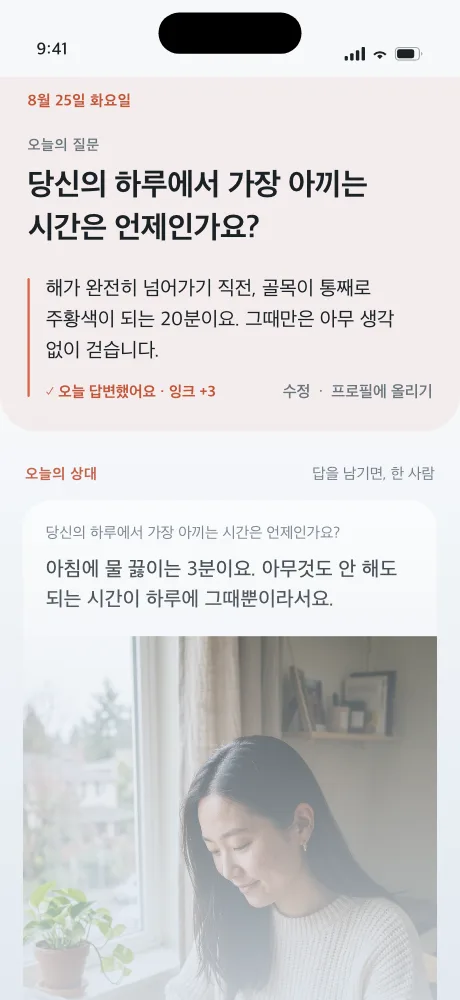
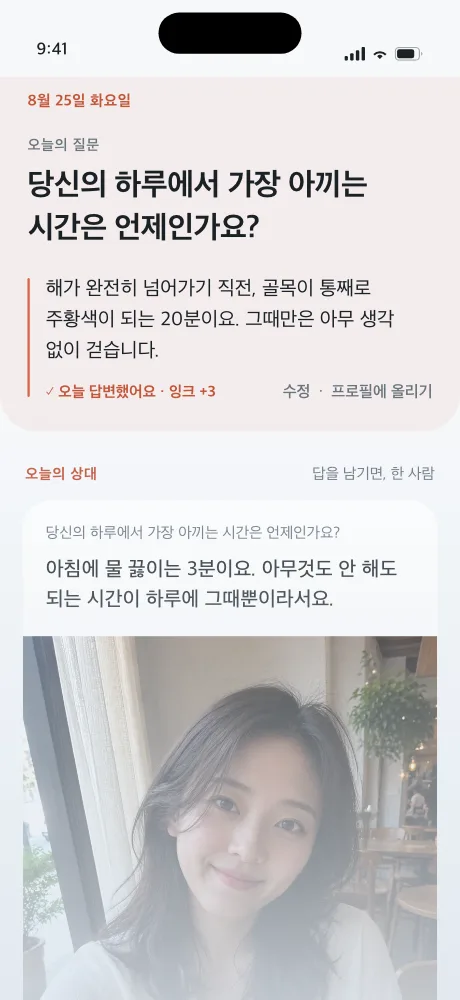
Refresh web and store profile photos with a casual selfie

Changed region(s): [[0.0304, 0.62, 0.9739, 1.0], [0.7609, 0.868, 0.9435, 0.961]]

diff --git a/design/photos/selfie-prompt-2026-09.md b/design/photos/selfie-prompt-2026-09.md
@@ -1,0 +1,10 @@
+# 일상 셀카 최종 편집
+
+내장 image_gen으로 기존 가상 인물 셀카를 편집했다. 최종 원본은 `cafe-selfie-2026-09.png`, 웹·스토어 공용 배포본은 `../../web/public/photos/cafe-selfie-2026-09.webp`다. 기존 회원 사진은 변경하지 않는다.
+
+```text
+Use case: identity-preserve
+Edit target: supplied AI-generated fictional Korean adult woman age 28 taking a café selfie.
+Request: Make a modest refinement toward an ordinary person's real quick smartphone selfie, less polished and posed. Preserve the same recognizable woman, adult age, shoulder-length dark hair, ivory casual blouse, café setting and portrait 4:5 framing.
+Replace the broad perfectly posed smile with a small relaxed slightly uneven closed-mouth smile. Slightly off-center spontaneous framing, camera held in one hand near eye level, tiny casual tilt; other shoulder relaxed, not both arms symmetrically reaching for camera. Natural stray hairs and slightly lived-in hair arrangement. Normal skin pores, faint under-eye texture, subtle natural redness, minimal everyday makeup, no smoothing. Ordinary mixed café and window light, slightly uneven exposure and mild phone-camera noise, natural neutral color, typical front camera detail rather than ultra-sharp editorial photography. Background reasonably in focus and mundane. Do not exaggerate flaws or deliberately make her unattractive, dirty, tired or blurry. Keep warmth and approachability. No beauty filter, cinematic grading, studio lighting, glamour polish, dramatic bokeh, face reshaping, artificial film grain, text or watermark. Anatomically plausible cropped arm, no extra limbs. Photo only.
+```

diff --git a/store/v3/README.md b/store/v3/README.md
@@ -5,9 +5,9 @@
 웹 판은 굽는 김에 webp로 줄여 `web/public/screens/`에 바로 꽂습니다 — 손으로 옮기면 언젠가 한쪽만 갱신되고, 실제로 그런 적이 있습니다(스토어는 v3인데 랜딩은 v1이었습니다).
 
 2026-09-07부터 웹의 첫 화면과 문답·오늘의 상대 미리보기는 `web/src/components/ProfilePreview.astro`에서 그립니다.
-사진은 `web/public/photos/cafe-portrait-2026-09.webp`를 공유하며, 원본과 생성 기록은 `design/photos/`에 있습니다.
+사진은 `web/public/photos/cafe-selfie-2026-09.webp`를 공유하며, 원본과 생성 기록은 `design/photos/`에 있습니다.
 이 두 미리보기는 `screens/1-discover.webp`와 `screens/4-answers.webp`를 더 이상 화면에 사용하지 않습니다.
-스토어 제출 이미지와 실제 계정의 사진은 별도로 유지합니다.
+스토어 제출 이미지도 같은 셀카 사진을 공유합니다. 실제 계정의 사진은 변경하지 않습니다.
 
 ## 왜 다시 만들었나
 
@@ -60,7 +60,7 @@
 
 ## 사진
 
-`store/personas/`의 페르소나 사진을 씁니다(앱 시드 계정과 같은 인물).
+주인공 조용한위로는 웹과 공유하는 `web/public/photos/cafe-selfie-2026-09.webp`를 씁니다. 나머지 예시 프로필은 `store/personas/`의 기존 이미지를 유지합니다.
 사람 사진이 들어가면 애플 심사에서 실제 인물로 오인될 소지가 없도록
 생성 이미지임을 유지하고, 실제 유저 사진은 절대 쓰지 않습니다.
 

diff --git a/design/photos/README.md b/design/photos/README.md
@@ -1,4 +1,4 @@
-# 웹 프로필 사진
+# 웹·스토어 프로필 사진
 
 - 요청: 더 자연스럽고 예쁜 20대 한국인 여성 사진으로 웹 이미지를 교체.
 - 제작일: 2026-09-07.
@@ -7,7 +7,11 @@
 - 웹 배포본: `../../web/public/photos/cafe-portrait-2026-09.webp` (폭 800px, WebP 품질 85).
 - 사용처: `ProfilePreview.astro`를 통한 웹 첫 화면, 문답 남기기, 오늘의 상대 안내.
 - 얼굴과 사진 내용은 생성 결과 그대로 유지하고, 웹 배포본은 크기와 파일 형식만 최적화했다.
-- 앱 계정 사진이나 스토어 제출 자료를 변경하지 않는다.
+- 앱 계정 사진은 변경하지 않는다.
+
+## 현재 사용 사진 — 일상 셀카
+
+2026-09-07 사용자 요청에 따라 `cafe-selfie-2026-09.png`로 교체했다. 웹과 각 스토어 스크린샷이 `../../web/public/photos/cafe-selfie-2026-09.webp`를 공유한다. 내장 image_gen 편집 도구로 생성했으며, 최종 프롬프트는 [selfie-prompt-2026-09.md](selfie-prompt-2026-09.md)에 기록했다. 아래는 이전 카페 인물사진의 기록이다.
 
 ## 최종 생성 프롬프트
 
